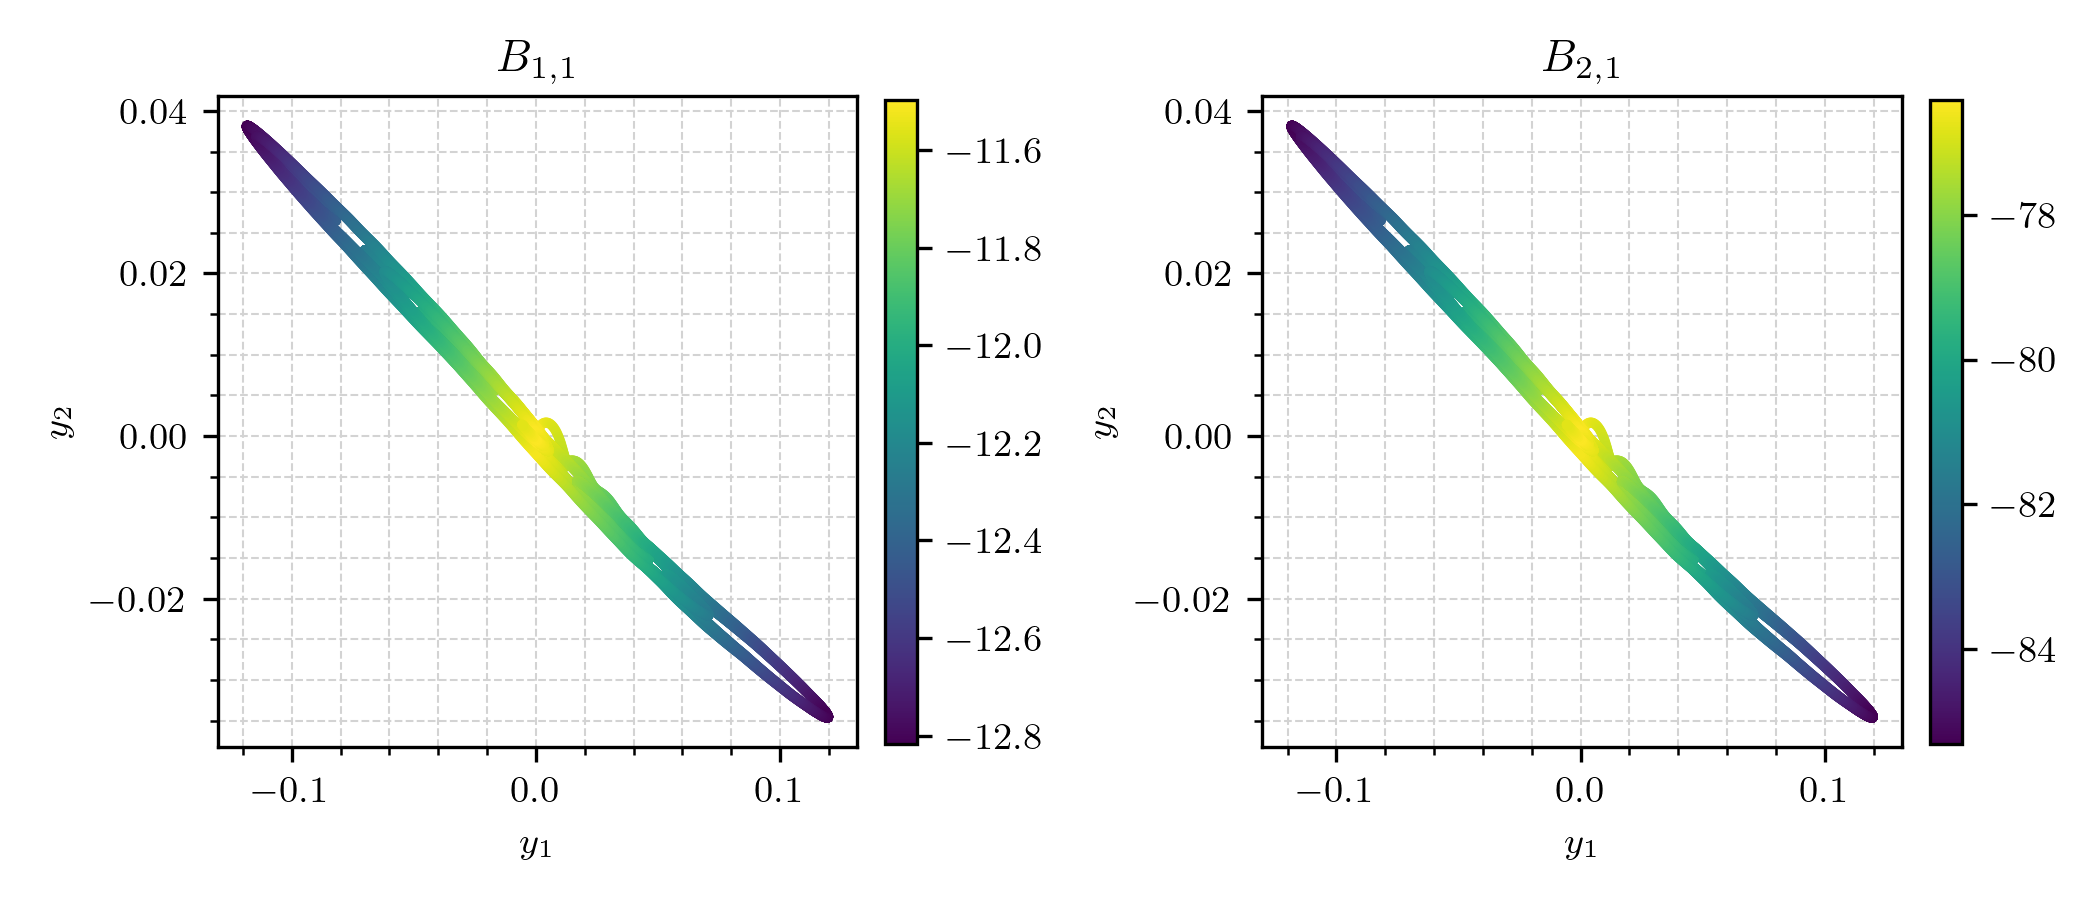
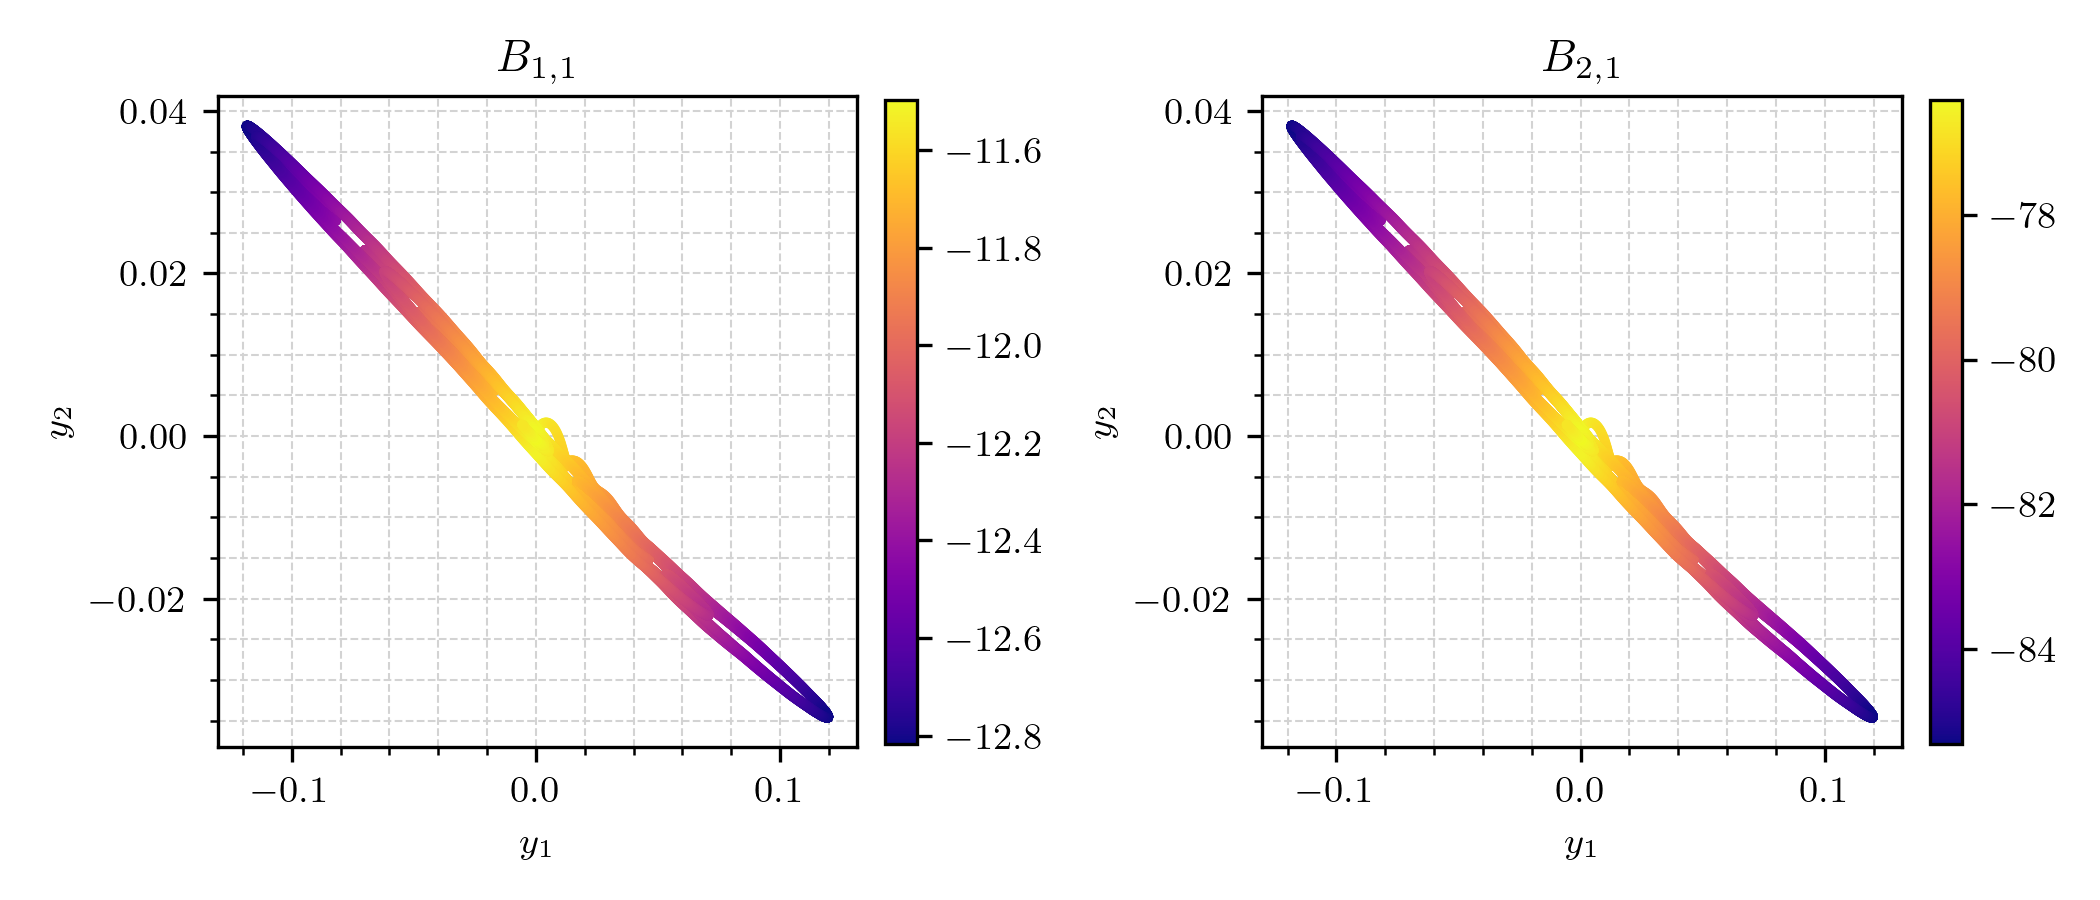
update

diff --git a/output_files/plot_AB.py b/output_files/plot_AB.py
@@ -136,14 +136,14 @@ def plot_B_Matrix(Yp, B, save_dir, save=False):
         Yp[:, 0].flatten(),
         Yp[:, 1].flatten(),
         c=B[:, 0, 0].flatten(),
-        cmap="viridis",
+        cmap="plasma",
         s=2,
     )
     sc2 = axs[1].scatter(
         Yp[:, 0].flatten(),
         Yp[:, 1].flatten(),
         c=B[:, 1, 0].flatten(),
-        cmap="viridis",
+        cmap="plasma",
         s=2,
     )
     # sc3 = axs[0, 1].scatter(
